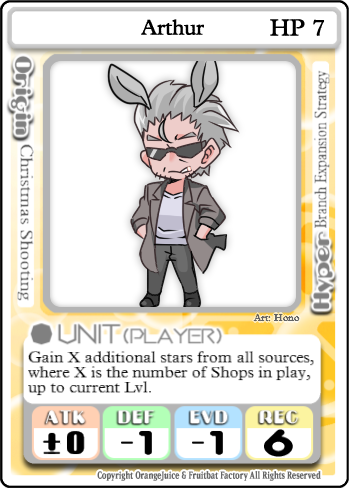
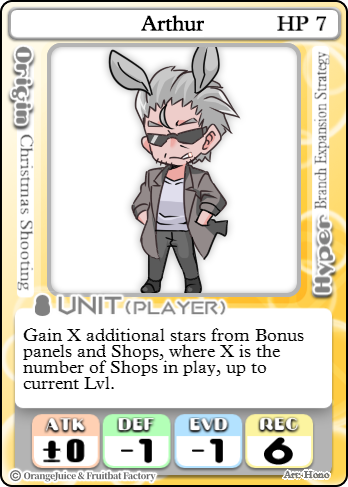
more a

diff --git a/bots/modules/hyaku_percent_orange_juice.py b/bots/modules/hyaku_percent_orange_juice.py
@@ -2224,8 +2224,11 @@ CARD_EVIL_SPY_WORK_EXECUTION = OJCard(159,
 CARD_MIRACLE_RED_BEAN_ICE_CREAM = OJCard(160,
     'Miracle Red Bean Ice Cream',
     3, CARD_COST_30, -1, CARD_TYPE_HYPER|CARD_TYPE_GIFT, None, CARD_RARITY_NONE,
-    '+1 ATK while this card is held. Tomomo (Casual): When played, turn into Tomomo (Sweet Eater) and fully restore '
-    'HP. Tomomo (Sweet Eater): When held, this card becomes Magical Revenge. Discard upon use or KO in battle.',
+    (
+        '+1 ATK while this card is held. Tomomo (Casual): When played, turn into Tomomo (Sweet Eater) and fully '
+        'restore HP.\n'
+        'Tomomo (Sweet Eater): When held, this card becomes Magical Revenge. Discard upon use or KO in battle.'
+    ),
     '"Miracle red bean ice cream!" ―Tomomo',
     None,
     'Miracle_Red_Bean_Ice_Cream.png',
@@ -2864,9 +2867,9 @@ CHARACTER_TEQUILA = OJCharacter(38,
 
 CHARACTER_TSIH = OJCharacter(39,
     'Tsih',
-    4, 0, -2, 2, 5,
+    4, 0, -1, 2, 5,
     ORIGIN_SORA,
-    'Gain +2ATK if holding a Gift card.',
+    'Gain +2 ATK if holding a Gift card.',
     (CARD_STEALTH_ON,),
     'Tsih_(unit).png',
 )
@@ -2904,7 +2907,7 @@ CHARACTER_ARTHUR = OJCharacter(43,
     'Arthur',
     7, 0, -1, -1, 6,
     ORIGIN_CHRISTMAS_SHOOTING,
-    'Gain X additional stars from all sources, where X is the number of Shops in play, up to current Lvl.',
+    'Gain X additional stars from Bonus panels and Shops, where X is the number of Shops in play, up to current Lvl.',
     (CARD_BRANCH_EXPANSION_STRATEGY, CARD_RBIT_HOBBY_SHOP),
     'Arthur_(unit).png',
 )
@@ -2913,8 +2916,7 @@ CHARACTER_IRU = OJCharacter(44,
     'Iru',
     5, 0, -1, 0, 5,
     ORIGIN_SUGURI,
-    'When challenging an enemy, they take 1 damage and attack first if no other effect affect turn order. KO from this '
-    'effect counts as battle KO.',
+    'When challenging an enemy, they take 1 damage. KO from this effect counts as battle KO.',
     (CARD_EXTENDED_PHOTON_RIFLE,),
     'Iru_(unit).png',
 )
@@ -2959,7 +2961,7 @@ CHARACTER_ISLAY = OJCharacter(48,
 
 CHARACTER_SUGURI_46_BILLION_YEARS = OJCharacter(49,
     'Suguri (46 Billion Years)',
-    5, 1, 1, 1, 5,
+    4, 0, 2, 2, 5,
     ORIGIN_FLYING_RED_BARREL,
     'When choosing a damage dealing Boost/Event card to play, you may pay double its cost to double the damage on use. '
     'If you do, gain +1 die to your next movement roll.',
@@ -2998,8 +3000,10 @@ CHARACTER_ALICIANRONE = OJCharacter(53,
     'Alicianrone',
     4, 1, -1, 1, 5,
     ORIGIN_ALICIANRONE,
-    'When battling an opponent with more than +1 ATK, gain +1 EVD, until end of battle. If they have more than +2 ATK, '
-    'gain an additional +1 EVD.',
+    (
+        'When battling an opponent with +1 or more ATK, gain +1 EVD until end of battle. If they have more +2 or more '
+        'ATK, gain an additional +1 EVD.'
+    ),
     (CARD_FULL_SPEED_ALICIANRONE,),
     'Alicianrone_(unit).png',
 )
@@ -3168,7 +3172,7 @@ CHARACTER_HALENA = OJCharacter(71,
     'Halena',
     5, -1, +1, +1, 5,
     ORIGIN_100_ORANGE_JUICE,
-    'Gain Lvl x3 stars after landing on your own home.',
+    'Gain Lvl x23 stars after landing on your own home.',
     (CARD_SAFE_JOURNEY,),
     'Halena_(unit).png',
 )
@@ -3187,9 +3191,9 @@ CHARACTER_COOK = OJCharacter(72,
 
 CHARACTER_LONE_RIDER = OJCharacter(73,
     'Lone Rider',
-    5, 0, +1, -1, 5,
+    5, 0, 0, -1, 5,
     ORIGIN_FLYING_RED_BARREL,
-    'If your Move roll result is 6 or higher, gain +1 ATK and +2 EVD until the start of your next turn.',
+    'If your Move roll result is higher than 6, gain +1 ATK, +1 DEF and +2 EVD until the start of your next turn.',
     (CARD_UPSHIFT,),
     'Lone_Rider_(unit).png',
 )
@@ -3302,17 +3306,17 @@ RELATIONS = {
     'Tomomo_(Casual)_(unit).png': 'https://cdn.discordapp.com/attachments/568837922288173058/901029420343635988/Tomomo_Casual_unit.png',
     'Tomomo_(Sweet_Eater)_(unit).png': 'https://cdn.discordapp.com/attachments/568837922288173058/901029427188756480/Tomomo_Sweet_Eater_unit.png',
     'Tequila_(unit).png': 'https://cdn.discordapp.com/attachments/568837922288173058/901029431005552660/Tequila_unit.png',
-    'Tsih_(unit).png': 'https://cdn.discordapp.com/attachments/568837922288173058/901029434264551454/Tsih_unit.png',
+    'Tsih_(unit).png': 'https://cdn.discordapp.com/attachments/568837922288173058/901552305940344892/Tsih_unit.png',
     'Mei_(unit).png': 'https://cdn.discordapp.com/attachments/568837922288173058/901029438278471680/Mei_unit.png',
     'Natsumi_(unit).png': 'https://cdn.discordapp.com/attachments/568837922288173058/901029441956900884/Natsumi_unit.png',
     'Nico_(unit).png': 'https://cdn.discordapp.com/attachments/568837922288173058/901029449544392714/Nico_unit.png',
-    'Arthur_(unit).png': 'https://cdn.discordapp.com/attachments/568837922288173058/901029453755473920/Arthur_unit.png',
-    'Iru_(unit).png': 'https://cdn.discordapp.com/attachments/568837922288173058/901029458021077002/Iru_unit.png',
+    'Arthur_(unit).png': 'https://cdn.discordapp.com/attachments/568837922288173058/901551697829167124/Arthur_unit.png',
+    'Iru_(unit).png': 'https://cdn.discordapp.com/attachments/568837922288173058/901553480664244284/Iru_unit.png',
     'Mira_(unit).png': 'https://cdn.discordapp.com/attachments/568837922288173058/901029461816901642/Mira_unit.png',
     'Sora_&_Sham_(Cuties)_(unit).png': 'https://cdn.discordapp.com/attachments/568837922288173058/901029465910550548/Sora__Sham_Cuties_unit.png',
     'Yuuki_(unit).png': 'https://cdn.discordapp.com/attachments/568837922288173058/901029471962935296/Yuuki_unit.png',
     'Islay_(unit).png': 'https://cdn.discordapp.com/attachments/568837922288173058/901029475251265536/Islay_unit.png',
-    'Suguri_(46_Billion_Years)_(unit).png': 'https://cdn.discordapp.com/attachments/568837922288173058/901029480167014400/Suguri_46_Billion_Years_unit.png',
+    'Suguri_(46_Billion_Years)_(unit).png': 'https://cdn.discordapp.com/attachments/568837922288173058/901552830823952454/Suguri_46_Billion_Years_unit.png',
     'Sumika_(unit).png': 'https://cdn.discordapp.com/attachments/568837922288173058/901029484608778270/Sumika_unit.png',
     'Ellie_(unit).png': 'https://cdn.discordapp.com/attachments/568837922288173058/901029489163784232/Ellie_unit.png',
     'Lulu_(unit).png': 'https://cdn.discordapp.com/attachments/568837922288173058/901029494654132244/Lulu_unit.png',
@@ -3334,9 +3338,9 @@ RELATIONS = {
     'Store_Manager_(unit).png': 'https://cdn.discordapp.com/attachments/568837922288173058/901029684714827806/Store_Manager_unit.png',
     'Shifu_Robot_(unit).png': 'https://cdn.discordapp.com/attachments/568837922288173058/901029688821022760/Shifu_Robot_unit.png',
     'Flying_Castle_(unit).png': 'https://cdn.discordapp.com/attachments/568837922288173058/901029692210053140/Flying_Castle_unit.png',
-    'Halena_(unit).png': 'https://cdn.discordapp.com/attachments/568837922288173058/901029696081362974/Halena_unit.png',
+    'Halena_(unit).png': 'https://cdn.discordapp.com/attachments/568837922288173058/901549023264141402/Halena_unit.png',
     'Cook_(unit).png': 'https://cdn.discordapp.com/attachments/568837922288173058/901032911460003850/Cook_unit.png',
-    'Lone_Rider_(unit).png': 'https://cdn.discordapp.com/attachments/568837922288173058/901029708244844544/Lone_Rider_unit.png',
+    'Lone_Rider_(unit).png': 'https://cdn.discordapp.com/attachments/568837922288173058/901550313453006978/Lone_Rider_unit.png',
     'Merchant_(unit).png': 'https://cdn.discordapp.com/attachments/568837922288173058/901029711759675402/Merchant_unit.png',
     'Accel_Hyper.png': 'https://cdn.discordapp.com/attachments/568837922288173058/901029715480039424/Accel_Hyper.png',
     'Big_Magnum.png': 'https://cdn.discordapp.com/attachments/568837922288173058/901029719775014962/Big_Magnum.png',
